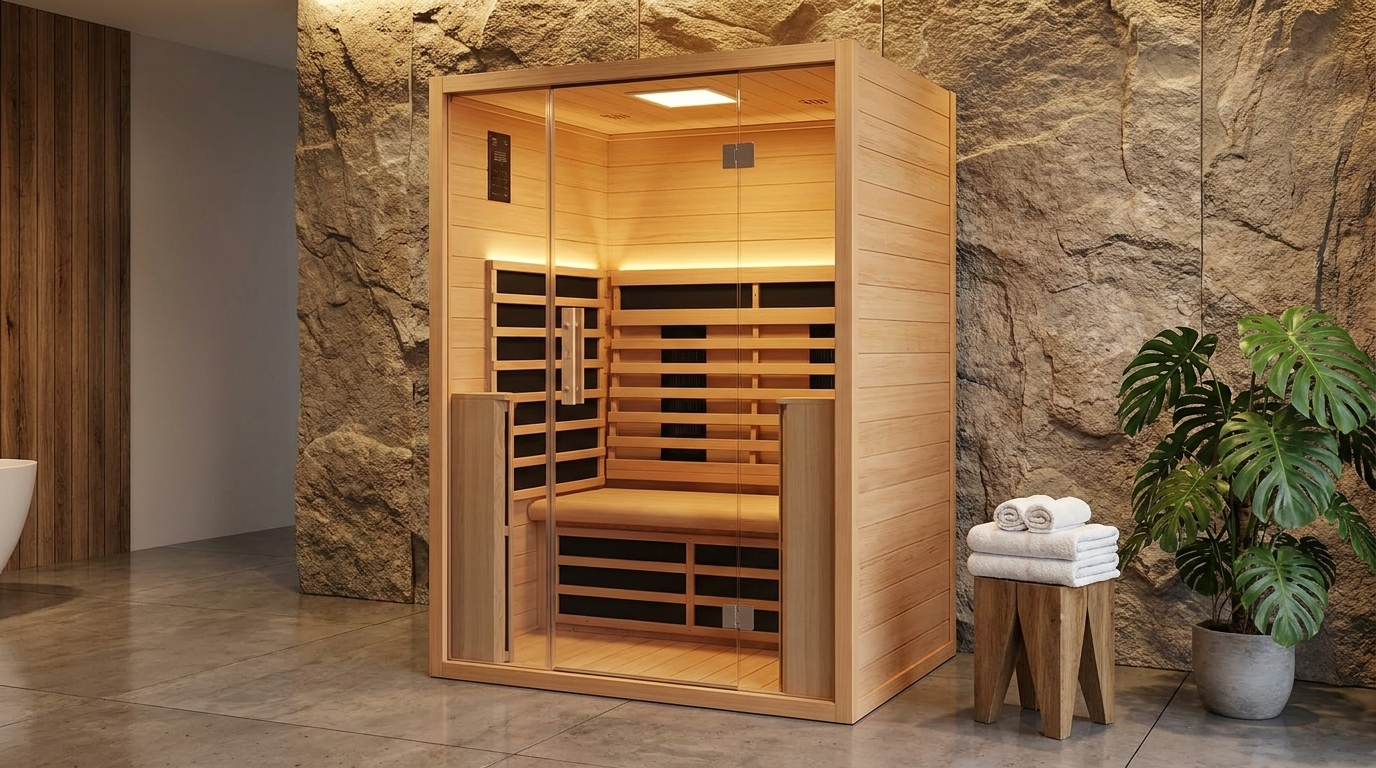
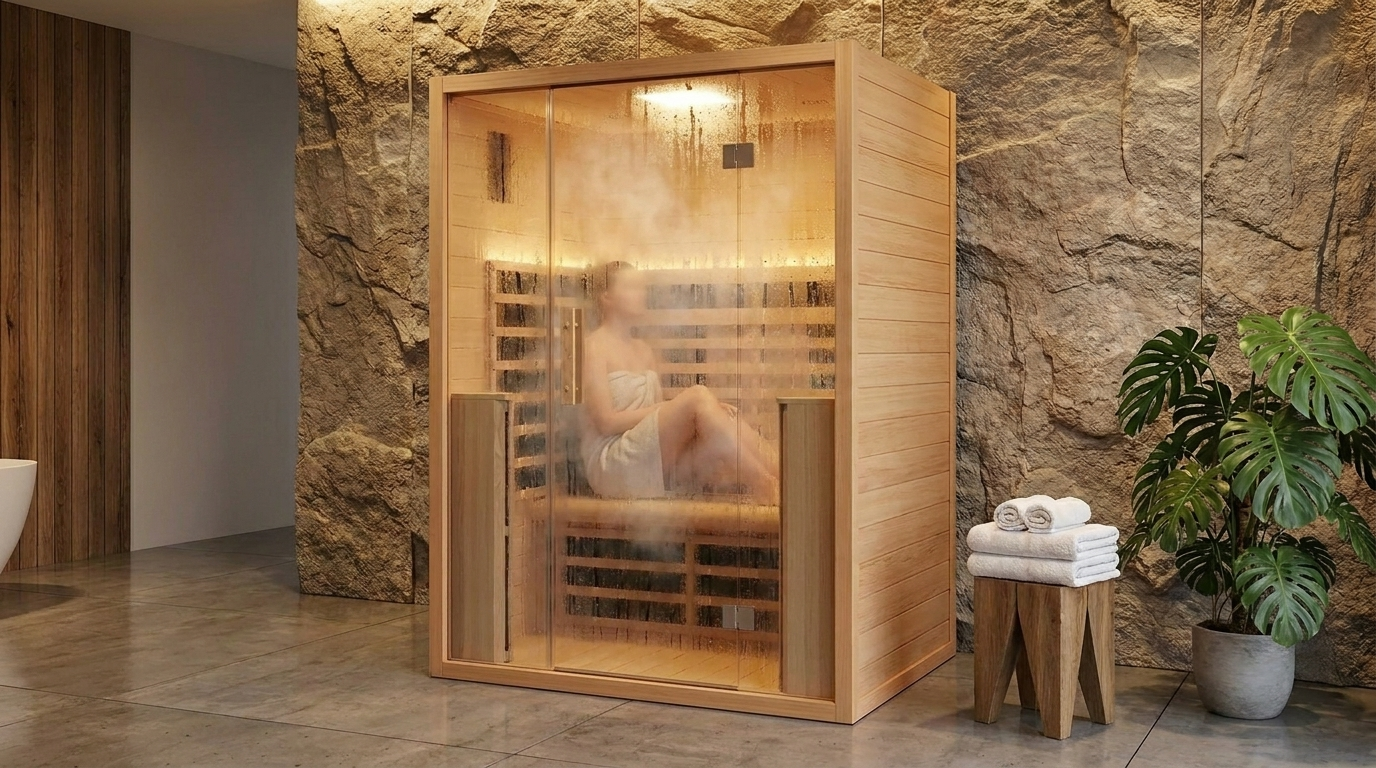
Scroll to top on route change

diff --git a/src/App.tsx b/src/App.tsx
@@ -6,10 +6,12 @@ import ShopPage from './pages/ShopPage';
 import ProductDetailPage from './pages/ProductDetailPage';
 import { motion, AnimatePresence } from 'motion/react';
 import FloatingContact from './components/FloatingContact';
+import ScrollToTop from './components/ScrollToTop';
 
 export default function App() {
   return (
     <Router>
+      <ScrollToTop />
       <div className="flex flex-col min-h-screen">
         <Header />
         <main className="flex-grow">

diff --git a/src/components/ScrollToTop.tsx b/src/components/ScrollToTop.tsx
@@ -1,0 +1,12 @@
+import { useEffect } from 'react';
+import { useLocation } from 'react-router-dom';
+
+export default function ScrollToTop() {
+  const { pathname } = useLocation();
+
+  useEffect(() => {
+    window.scrollTo(0, 0);
+  }, [pathname]);
+
+  return null;
+}
